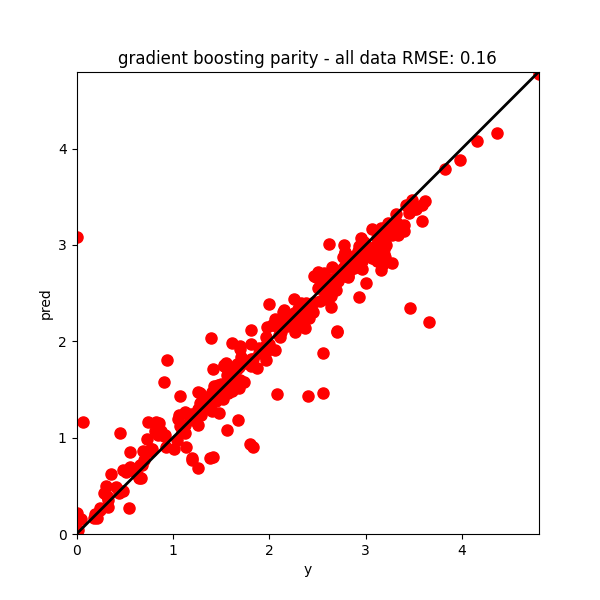
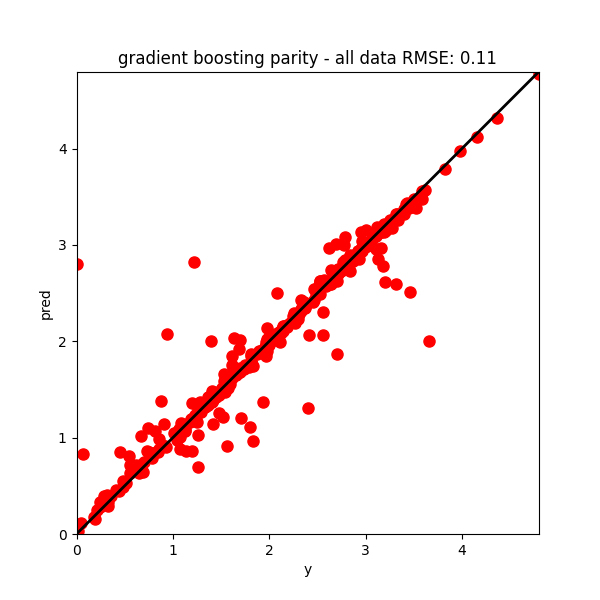
Optional override for model hyperparameters

diff --git a/boxylmer/MaterialPropertyPredictor/PredictorModel.py b/boxylmer/MaterialPropertyPredictor/PredictorModel.py
@@ -43,15 +43,16 @@ class AbstractBandGapModel(ABC):
         pass
 
 class RandomForestBandGapModel(AbstractBandGapModel):
-    def __init__(self):
+    def __init__(self, **kwargs):
         super().__init__()
         self.model = RandomForestRegressor(
             n_estimators=50, 
             min_samples_split=4, 
             min_samples_leaf=2, 
             max_depth=30, 
-            bootstrap=True
-            )
+            bootstrap=True,
+            **kwargs
+        )
 
         
     def fit(self, material_data_loader):
@@ -93,14 +94,15 @@ class RandomForestBandGapModel(AbstractBandGapModel):
 #   which is fundamentally the same but can be parallelized easily and may even have better optimization methods
 # more info: https://stats.stackexchange.com/questions/282459/xgboost-vs-python-sklearn-gradient-boosted-trees
 class GradientBoostingBandGapModel(AbstractBandGapModel):
-    def __init__(self):
+    def __init__(self, **kwargs):
         super().__init__()
         self.model = GradientBoostingRegressor(
             n_estimators=170, 
             min_samples_split=4, 
             min_samples_leaf=6, 
             max_depth=4, 
-            learning_rate=0.1
+            learning_rate=0.1,
+            **kwargs,
         )
         
 

diff --git a/boxylmer/MaterialPropertyPredictor/MaterialDataLoader.py b/boxylmer/MaterialPropertyPredictor/MaterialDataLoader.py
@@ -148,8 +148,8 @@ class AbstractDataLoader(ABC):
                         self.volumes[i], 
                         self.lattice_vectors[i],
                         self.lattice_angles[i], 
-                        # self.coulomb_matrix_eigenvalues[i]
-                        np.array([atom.specie.Z for atom in self.structures[i]], dtype=np.float32) # what if we use only the atoms? 
+                        self.coulomb_matrix_eigenvalues[i]
+                        # np.array([atom.specie.Z for atom in self.structures[i]], dtype=np.float32) # what if we use only the atoms? 
                     ), 
                     dtype=np.float32
                 )
